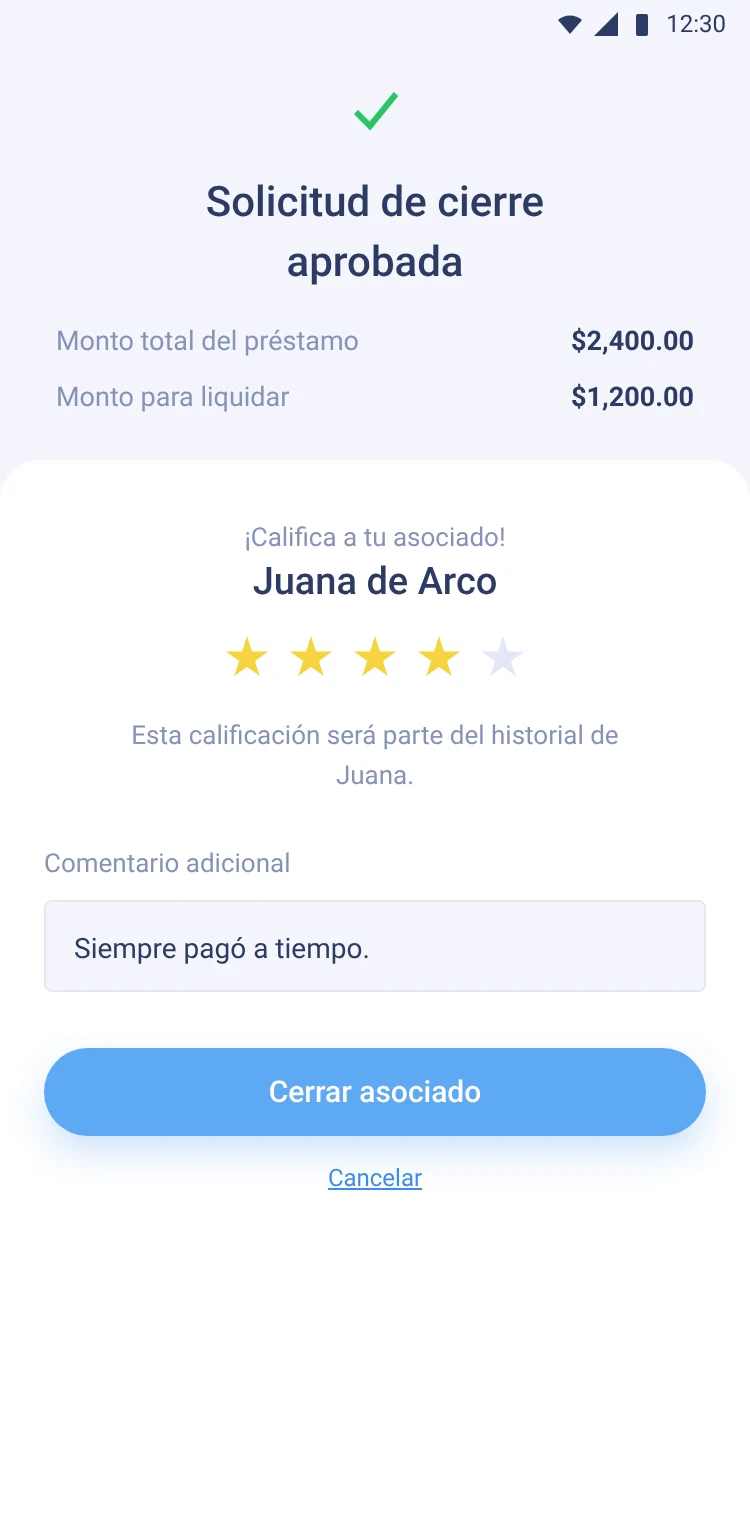
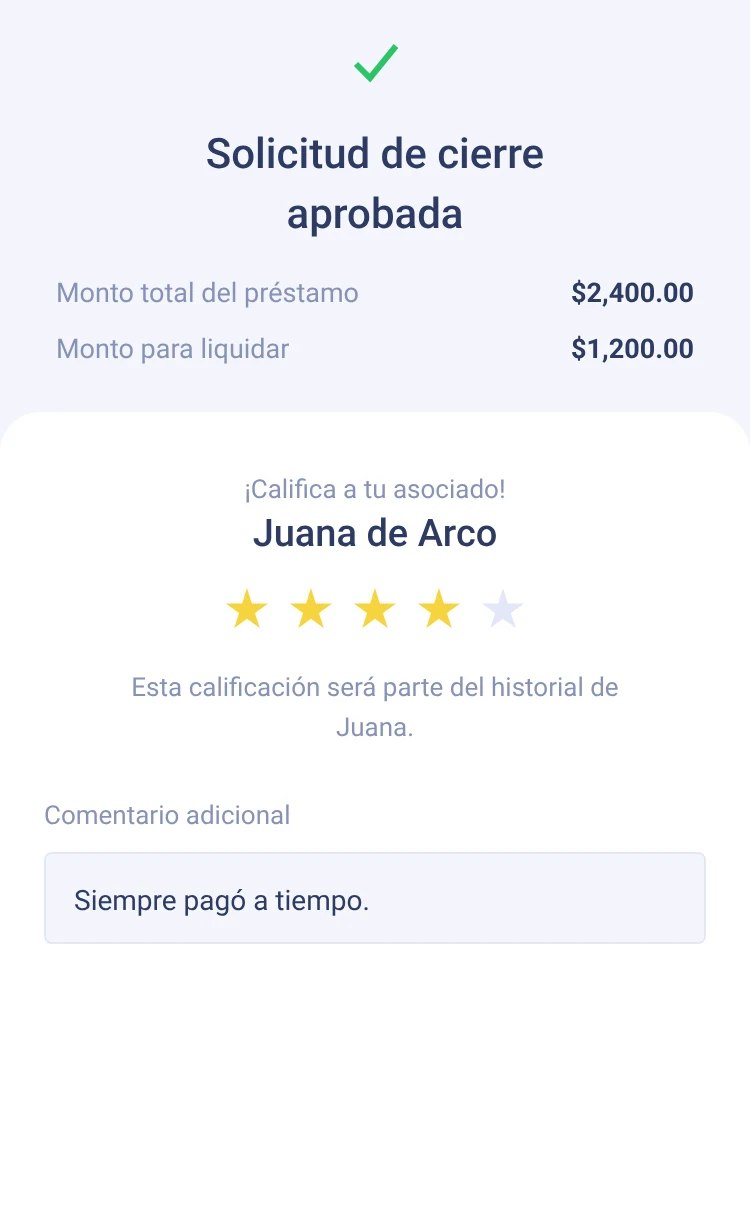
Volana: phone frames with scrolling screens and a fixed button that steps aside while scrolling, Lender/Associate switch; industry tags in Work
Claude-Session: https://claude.ai/code/session_014oW9rryPzLSdmVNbG2KxAd

diff --git a/case-studies/volana/index.html b/case-studies/volana/index.html
@@ -173,10 +173,29 @@
             <p>So the lender’s wallet opens on their next payment to Volana, with the associates who owe this fortnight below it. The associate’s home opens on what they owe, and two ways to pay: a bank transfer, or cash at any OXXO store with a reference. Not everyone used a bank account, so cash had to stay an option.</p>
             <p class="cs-chip"><span>Based on</span> Focus groups</p>
           </div>
-          <figure class="cs-decision__media vo-pair">
-            <img src="img/wallet.webp" width="750" height="1540" alt="Lender, “Mi cartera”: the next payment of $13,500.00, a personal loan offer, and the associates who pay this fortnight, Juana de Arco ($350.00) and Julieta García ($700.00).">
-            <img src="img/pay.webp" width="750" height="1540" alt="Associate, “Hola, Juana”: next payment of $350.00 due Friday, November 15, payment 2 of 6, lent by María Hernández, with cash at OXXO selected and a payment reference with a barcode.">
-            <figcaption>Left, the lender. Right, the associate.</figcaption>
+          <figure class="cs-decision__media cs-decision__media--phone vo-roles">
+            <div class="cs-segmented" role="group" aria-label="Role">
+              <button type="button" data-role="lender" aria-pressed="true">Lender</button>
+              <button type="button" data-role="associate" aria-pressed="false">Associate</button>
+            </div>
+            <div class="vo-roles__view" data-role="lender">
+            <div class="vo-phone">
+              <img class="vo-phone__status" src="img/wallet-status.webp" width="750" height="48" alt="">
+              <div class="vo-phone__screen" tabindex="0" role="region" aria-label="Mi cartera (scrollable screen)">
+                <img src="img/wallet.webp" width="750" height="1186" alt="Lender, “Mi cartera”: the next payment of $13,500.00, a personal loan offer, and the associates who pay this fortnight, Juana de Arco ($350.00) and Julieta García ($700.00).">
+              </div>
+              <img class="vo-phone__bar" src="img/wallet-bar.webp" width="750" height="112" alt="">
+            </div>
+            </div>
+            <div class="vo-roles__view" data-role="associate">
+            <div class="vo-phone">
+              <img class="vo-phone__status" src="img/pay-status.webp" width="750" height="48" alt="">
+              <div class="vo-phone__screen" tabindex="0" role="region" aria-label="Hola, Juana (scrollable screen)">
+                <img src="img/pay.webp" width="750" height="1188" alt="Associate, “Hola, Juana”: next payment of $350.00 due Friday, November 15, payment 2 of 6, lent by María Hernández, with cash at OXXO selected and a payment reference with a barcode.">
+              </div>
+              <img class="vo-phone__bar" src="img/pay-bar.webp" width="750" height="112" alt="">
+            </div>
+            </div>
           </figure>
         </article>
 
@@ -191,7 +210,13 @@
             <p class="cs-chip"><span>Based on</span> Focus groups · Legal</p>
           </div>
           <figure class="cs-decision__media cs-decision__media--phone">
-            <img src="img/offer.webp" width="750" height="1540" alt="“Ofrece un préstamo”: $11,800.00 of available credit, the associate Julieta García chosen with a four-star rating, a $4,000.00 loan on a slider, the note “Julieta se ha comportado bien en otros préstamos”, and a term of 6 quincenas.">
+            <div class="vo-phone">
+              <img class="vo-phone__status" src="img/offer-status.webp" width="750" height="48" alt="">
+              <div class="vo-phone__screen" tabindex="0" role="region" aria-label="Ofrece un préstamo (scrollable screen)">
+                <img src="img/offer.webp" width="750" height="1576" alt="“Ofrece un préstamo”: $11,800.00 of available credit, the associate Julieta García chosen with a four-star rating, a $4,000.00 loan on a slider, the note “Julieta se ha comportado bien en otros préstamos”, and a term of 6 quincenas.">
+              </div>
+              <div class="vo-phone__cta" aria-hidden="true"><span class="vo-phone__btn">Continuar</span></div>
+            </div>
           </figure>
         </article>
 
@@ -205,7 +230,13 @@
             <p class="cs-chip"><span>Based on</span> Behavioral economics</p>
           </div>
           <figure class="cs-decision__media cs-decision__media--phone">
-            <img src="img/rate.webp" width="750" height="1540" alt="“Solicitud de cierre aprobada”: a $2,400.00 loan with $1,200.00 to settle, and a card to rate the associate Juana de Arco with four stars and the comment “Siempre pagó a tiempo”.">
+            <div class="vo-phone">
+              <img class="vo-phone__status" src="img/rate-status.webp" width="750" height="48" alt="">
+              <div class="vo-phone__screen" tabindex="0" role="region" aria-label="Califica a tu asociado (scrollable screen)">
+                <img src="img/rate.webp" width="750" height="1216" alt="“Solicitud de cierre aprobada”: a $2,400.00 loan with $1,200.00 to settle, and a card to rate the associate Juana de Arco with four stars and the comment “Siempre pagó a tiempo”.">
+              </div>
+              <div class="vo-phone__cta" aria-hidden="true"><span class="vo-phone__btn">Cerrar asociado</span><span class="vo-phone__link">Cancelar</span></div>
+            </div>
           </figure>
         </article>
 
@@ -220,7 +251,13 @@
             <p class="cs-chip"><span>Based on</span> Legal requirements</p>
           </div>
           <figure class="cs-decision__media cs-decision__media--phone">
-            <img src="img/verify.webp" width="750" height="1540" alt="Sign-up, “Verifica tu identidad”: step 2 of 3, the INE photo done, a selfie next, “Verificación segura con Veriff” and a “Tomar selfie” button.">
+            <div class="vo-phone">
+              <img class="vo-phone__status" src="img/verify-status.webp" width="750" height="48" alt="">
+              <div class="vo-phone__screen" tabindex="0" role="region" aria-label="Verifica tu identidad (scrollable screen)">
+                <img src="img/verify.webp" width="750" height="1306" alt="Sign-up, “Verifica tu identidad”: step 2 of 3, the INE photo done, a selfie next, “Verificación segura con Veriff” and a “Tomar selfie” button.">
+              </div>
+              <div class="vo-phone__cta" aria-hidden="true"><span class="vo-phone__btn">Tomar selfie</span></div>
+            </div>
           </figure>
         </article>
 
@@ -253,5 +290,6 @@
   </div>
 
   <script src="../case-study.js"></script>
+  <script src="volana.js"></script>
 </body>
 </html>

diff --git a/script.js b/script.js
@@ -8,7 +8,7 @@
 
   const projects = {
     'order-sets': {
-      num: '01', name: 'Order sets', client: 'Oracle',
+      num: '01', name: 'Order sets', client: 'Oracle', tag: 'Healthcare',
       title: 'How Dr. Reyes planned a chemo cycle without decoding it',
       description: 'Designing oncology regimens and the day of treatment for a new EHR, inside a build that was already under way.',
       // Stretched link: the only interactive element in the project copy (see .cta--stretched in styles.css)
@@ -18,7 +18,7 @@
       alt: 'Cycle 1 of 4 of a lung cancer regimen: the patient summary on the left, pre-medication and treatment orders with an estimated time for each on Day 1.'
     },
     'viu': {
-      num: '02', name: 'Insurance profile', client: 'VIU by HUB',
+      num: '02', name: 'Insurance profile', client: 'VIU by HUB', tag: 'Insurance',
       title: 'How Frankie found clarity, and a better way to renew',
       description: 'Designing VIU’s account space, where every policy lives in one place and HUB can help before each renewal.',
       cta: '<a class="cta cta--stretched" href="case-studies/viu/" data-umami-event="See case study" data-umami-event-project="viu">See case study ' + chevron + '</a>',
@@ -27,7 +27,7 @@
       alt: 'VIU by HUB account screen: a personal dashboard greeting Frankie with all their policies and recommended coverage.'
     },
     'volana': {
-      num: '03', name: 'Cash loans app', client: 'Volana',
+      num: '03', name: 'Cash loans app', client: 'Volana', tag: 'Fintech',
       title: 'Moving cash loans from the street to the phone',
       description: 'Designing an app so people who lived on cash could sign up, track and pay their loans without a trip to the branch.',
       cta: '<a class="cta cta--stretched" href="case-studies/volana/" data-umami-event="See case study" data-umami-event-project="volana">See case study ' + chevron + '</a>',
@@ -36,7 +36,7 @@
       alt: 'Three Volana screens: the borrower’s wallet with the next payment, offering a loan to a trusted member, and rating a member when a loan closes.'
     },
     'order-entry': {
-      num: '04', name: 'AI-assisted order entry', client: 'Oracle',
+      num: '04', name: 'AI-assisted order entry', client: 'Oracle', tag: 'Healthcare',
       title: 'How Dr. Haven got help ordering, only when he asked for it',
       description: 'Designing AI-assisted order entry for an EHR: when the assistant helps, and when it steps aside.',
       cta: '<span class="cta cta--locked">Available on request · NDA ' + lock + '</span>',
@@ -67,6 +67,7 @@
         '<span class="case-client">' + p.client + '</span>' +
       '</p>' +
       '<div class="project-copy">' +
+        '<p class="project-tag">' + p.tag + '</p>' +
         '<h2 class="display">' + p.title + '</h2>' +
         '<p class="lede">' + p.description + '</p>' +
         '<p class="project-cta">' + p.cta + '</p>' +
@@ -111,6 +112,7 @@
   const workView = document.getElementById('view-work');
   const tabs = Array.from(document.querySelectorAll('.project-tab'));
   const panel = document.getElementById('panel-project');
+  const tagEl = panel.querySelector('[data-field="tag"]');
   const titleEl = panel.querySelector('[data-field="title"]');
   const descEl = panel.querySelector('[data-field="description"]');
   const ctaEl = panel.querySelector('[data-field="cta"]');
@@ -135,6 +137,7 @@
     visual.style.setProperty('--panel-bg', p.bg);
 
     switchTimer = setTimeout(function () {
+      tagEl.textContent = p.tag;
       titleEl.innerHTML = p.title;
       descEl.textContent = p.description;
       ctaEl.innerHTML = p.cta;

diff --git a/case-studies/volana/volana.css b/case-studies/volana/volana.css
@@ -4,7 +4,7 @@
   --cs-accent-line: #6C78FF;
   --cs-chip-bg: #E8EAFD;
 }
-.cs-decision__media--phone img { max-width: 300px; margin: 0 auto; border-radius: 20px; box-shadow: 0 12px 40px rgba(45, 58, 99, .14), 0 0 0 1px rgba(45, 58, 99, .06); }
+.cs-decision__media--phone .vo-phone { max-width: 300px; margin: 0 auto; }
 .cs-decision__media--phone figcaption { max-width: 360px; margin: 16px auto 0; text-align: center; }
 .cs-note { margin-top: 24px !important; font-size: 12px; line-height: 18px; color: var(--muted); }
 
@@ -45,7 +45,42 @@
   .vo-journey__curve polyline { fill: none; stroke: var(--cs-accent-line); stroke-width: 2; stroke-dasharray: 4 4; vector-effect: non-scaling-stroke; }
   .vo-journey__change { border-top: 1px dashed var(--cs-line, #DDD9CC); }
 }
-/* Decision 01: the lender and the associate side by side */
-.vo-pair { display: grid; grid-template-columns: repeat(2, minmax(0, 220px)); justify-content: center; gap: 20px; }
-.vo-pair img { border-radius: 16px; box-shadow: 0 12px 40px rgba(45, 58, 99, .14), 0 0 0 1px rgba(45, 58, 99, .06); }
-.vo-pair figcaption { grid-column: 1 / -1; text-align: center; }
+/* Decision 01: one phone, a Lender / Associate switch above it (volana.js) */
+.vo-roles .cs-segmented { display: flex; width: max-content; margin: 0 auto 20px; }
+.vo-roles__view + .vo-roles__view { margin-top: 24px; }
+.vo-roles.is-switchable .vo-roles__view + .vo-roles__view { margin-top: 0; }
+.vo-roles__view[hidden] { display: none; }
+
+/* Phone frame: status bar fixed on top, the screen scrolls inside, a tab bar or the screen's
+   main button stays fixed at the bottom (40px above the edge, in the screen's 375px scale). */
+.vo-phone {
+  container-type: inline-size;
+  position: relative;
+  display: flex;
+  flex-direction: column;
+  aspect-ratio: 375 / 700;
+  background: #fff;
+  border: 10px solid #1E2333;
+  border-radius: 44px;
+  overflow: hidden;
+  box-shadow: 0 16px 48px rgba(45, 58, 99, .18);
+}
+.vo-phone img { display: block; width: 100%; height: auto; border-radius: 0; box-shadow: none; }
+.vo-phone__status { flex: none; }
+.vo-phone__screen { flex: 1; min-height: 0; overflow-y: auto; scrollbar-width: none; }
+.vo-phone__screen::-webkit-scrollbar { display: none; }
+.vo-phone__screen:focus-visible { outline: 3px solid var(--cs-accent-line); outline-offset: -3px; }
+.vo-phone__bar { position: absolute; left: 0; right: 0; bottom: 0; }
+.vo-phone__cta {
+  position: absolute; left: 5.9cqw; right: 5.9cqw; bottom: 10.7cqw;
+  display: flex; flex-direction: column; align-items: center; gap: 3.2cqw;
+  transition: transform var(--dur-medium) var(--ease), opacity var(--dur-medium) var(--ease);
+}
+.vo-phone__btn {
+  width: 100%; height: 12.8cqw; border-radius: 6.4cqw; background: #2B73D6; color: #fff;
+  display: flex; align-items: center; justify-content: center;
+  font-family: Roboto, Inter, sans-serif; font-weight: 500; font-size: 4.27cqw;
+  box-shadow: 0 2cqw 5cqw rgba(43, 115, 214, .3);
+}
+.vo-phone__link { font-size: 3.2cqw; color: #2563C9; text-decoration: underline; }
+.vo-phone.is-scrolling .vo-phone__cta { transform: translateY(calc(100% + 10.7cqw)); opacity: 0; }

diff --git a/case-studies/volana/volana.js b/case-studies/volana/volana.js
@@ -1,0 +1,32 @@
+// Phone frames: the screen scrolls inside the frame. Its bottom button steps aside while the
+// screen is scrolling and comes back when scrolling stops or the end is reached.
+(function () {
+  'use strict';
+  document.querySelectorAll('.vo-phone').forEach((phone) => {
+    const screen = phone.querySelector('.vo-phone__screen');
+    if (!screen || !phone.querySelector('.vo-phone__cta')) return;
+    let timer;
+    screen.addEventListener('scroll', () => {
+      const atEnd = screen.scrollTop + screen.clientHeight >= screen.scrollHeight - 2;
+      clearTimeout(timer);
+      phone.classList.toggle('is-scrolling', !atEnd);
+      if (!atEnd) timer = setTimeout(() => phone.classList.remove('is-scrolling'), 400);
+    }, { passive: true });
+  });
+})();
+
+// Decision 01: Lender / Associate switch. Without JavaScript both phones show, one after the other.
+(function () {
+  'use strict';
+  document.querySelectorAll('.vo-roles').forEach((fig) => {
+    const buttons = Array.from(fig.querySelectorAll('.cs-segmented button[data-role]'));
+    const views = Array.from(fig.querySelectorAll('.vo-roles__view'));
+    const show = (role) => {
+      buttons.forEach((b) => b.setAttribute('aria-pressed', String(b.dataset.role === role)));
+      views.forEach((v) => { v.hidden = v.dataset.role !== role; });
+    };
+    buttons.forEach((b) => b.addEventListener('click', () => show(b.dataset.role)));
+    fig.classList.add('is-switchable');
+    show('lender');
+  });
+})();

diff --git a/styles.css b/styles.css
@@ -377,6 +377,20 @@ a.cta svg { transition: transform var(--dur-short) var(--ease); }
    (title, description, CTA). Nothing else in the block is clickable, so screen
    readers announce only the link; the heading and text read as normal content. */
 .project-copy { position: relative; }
+/* Industry tag above each project title */
+.project-tag {
+  display: inline-block;
+  margin: 0 0 16px;
+  padding: 2px 10px;
+  border: 1px solid #D9D6CC;
+  border-radius: 999px;
+  font-family: var(--font-mono);
+  font-size: 12px;
+  line-height: 20px;
+  letter-spacing: 0.04em;
+  text-transform: uppercase;
+  color: var(--ink-soft);
+}
 .cta--stretched::after {
   content: "";
   position: absolute;

diff --git a/index.html b/index.html
@@ -94,6 +94,7 @@
 
         <div class="col col--text" id="panel-project" role="tabpanel" aria-labelledby="tab-order-sets">
           <div class="project-copy">
+            <p class="project-tag" data-field="tag">Healthcare</p>
             <h2 class="display" data-field="title">How Dr. Reyes planned a chemo cycle without decoding it</h2>
             <p class="lede" data-field="description">Designing oncology regimens and the day of treatment for a new EHR, inside a build that was already under way.</p>
             <p class="project-cta" data-field="cta">

diff --git a/CLAUDE.md b/CLAUDE.md
@@ -3,7 +3,7 @@
 Static personal portfolio: plain HTML, CSS and JavaScript, no build step.
 
 - `index.html` — structure and content (Work, Experience, About views, switched by URL hash)
-- `styles.css` — design tokens and layout (desktop ≥1240px with the sidebar, small desktop 1025–1239px, tablet 700–1024px, phone <700px; below 1240px the sidebar becomes the top bar and hamburger menu). Work shows the stacked use cases at 1024px and below. From 700 to 1024px content sits in a centered 720px column (`--gutter` grows with the screen), while the image panel spans the full width with the image aligned to the text edges; the top bar and open menu stay full width with 40px side margins. From 1240px the Work title follows one fluid scale, `clamp(40px, min(4vw, 6.8vh), 96px)`: it grows with the window's width, is held back by its height, and reaches 96px only on large screens. Small desktop keeps the Work tabs layout with the hamburger menu (the sidebar would leave the tabs too little room to fit one row). At 1024px and below the Work project titles use the case study title style (40/44px tablet, 36/40px phone, `text-wrap: balance`). Work has four projects: 01 Order sets, 02 VIU, 03 Volana, 04 AI-assisted order entry (under NDA, always last). From 1240px the tabs are a one-row grid; long titles wrap when the row is tight
+- `styles.css` — design tokens and layout (desktop ≥1240px with the sidebar, small desktop 1025–1239px, tablet 700–1024px, phone <700px; below 1240px the sidebar becomes the top bar and hamburger menu). Work shows the stacked use cases at 1024px and below. From 700 to 1024px content sits in a centered 720px column (`--gutter` grows with the screen), while the image panel spans the full width with the image aligned to the text edges; the top bar and open menu stay full width with 40px side margins. From 1240px the Work title follows one fluid scale, `clamp(40px, min(4vw, 6.8vh), 96px)`: it grows with the window's width, is held back by its height, and reaches 96px only on large screens. Small desktop keeps the Work tabs layout with the hamburger menu (the sidebar would leave the tabs too little room to fit one row). At 1024px and below the Work project titles use the case study title style (40/44px tablet, 36/40px phone, `text-wrap: balance`). Work has four projects: 01 Order sets, 02 VIU, 03 Volana, 04 AI-assisted order entry (under NDA, always last). Each project shows its industry as a tag above the title (`.project-tag`, `tag` in `script.js`): Healthcare, Insurance, Fintech, Healthcare. From 1240px the tabs are a one-row grid; long titles wrap when the row is tight
 - `script.js` — view routing, project switcher, stacked use cases on smaller screens, mobile menu
 - `assets/img/` — project images and portrait (exported from Figma)
 - `assets/og/` — 1200×630 share images (Open Graph / Twitter tags in each page's `<head>`, absolute URLs on savsgarcia.github.io/portfolio); `assets/cv/` — resume PDFs (EN, ES), linked from the sidebar and About
@@ -58,7 +58,7 @@ The tests serve the site on port 4173, open every page (and every hash view of `
   - "See raw data" opens a native `<dialog>` (focus trapped, Esc closes, focus returns to the button). Below 700px it opens as a bottom sheet with the screenshot first.
   - Per case study: `--cs-hero-bg` (the top band, a very light tint of the project's color; Order sets `#F6EEF2`), `--cs-accent-line` (the Overview line, in the project's color from Work) and `--cs-hero-fade` (where the hero fades; 82% for device mockups). Order sets is the exception: its hero is the full screen at full opacity, no fade, at most the content column and at least 40px from each side.
   - Order sets (`case-studies/order-sets/`) adds `tour.js` (a click-through walkthrough: one screen at a time, chapters, a 44px green hotspot button per step, notes in the Final note style, Back/Next, a native `<dialog>` for the before/after) and `flow.js` (one interactive flowchart: lanes and Yes/No are real buttons with `aria-pressed`, the outcome is written below in an `aria-live` paragraph; opens fitted, zooms with + / −). Screens come from the uploaded 3840px PNGs, converted to 2880px WebP.
-- Volana (`case-studies/volana/`) is a short case study: no validation module. It adds `volana.css` (Volana's blue, phone-sized screens, the customer journey: stages as columns aligned with subgrid on desktop and cards below 1100px, feelings as an emoji plus the word on one dashed horizontal line). Screens are recreations of the 2019 designs, rendered from HTML.
+- Volana (`case-studies/volana/`) is a short case study: no validation module. It adds `volana.css` (Volana's blue, phone-sized screens, the customer journey: stages as columns aligned with subgrid on desktop and cards below 1100px, feelings as an emoji plus the word on one dashed horizontal line). Screens are recreations of the 2019 designs, rendered from HTML, shown in phone frames (`.vo-phone`): the status bar and a tab bar or main button stay fixed (the button 40px above the bottom, in the 375px scale), the screen scrolls inside (a focusable region), and `volana.js` hides the button while the screen scrolls and brings it back when scrolling stops or the end is reached. Decision 01 shows one phone with a Lender / Associate segmented control (`aria-pressed`).
 - The project switcher on desktop is a tablist (`role="tab"` + `aria-selected`, roving tabindex 0/-1, arrow keys).
 - Inactive project numbers use `--num-idle: #93918A`, the lightest warm grey that meets 3:1 at 24px.
 - The index links, Tested/Final control, annotations switch, dialogs and gallery rules apply to the case study pages when they are built.
